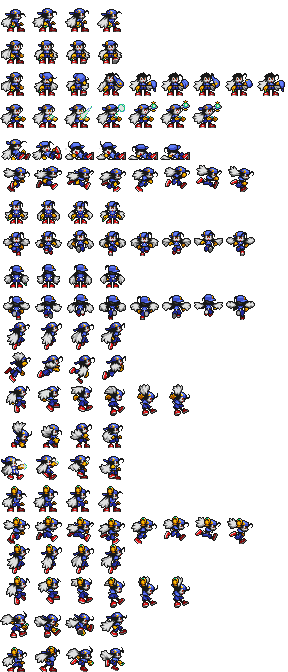
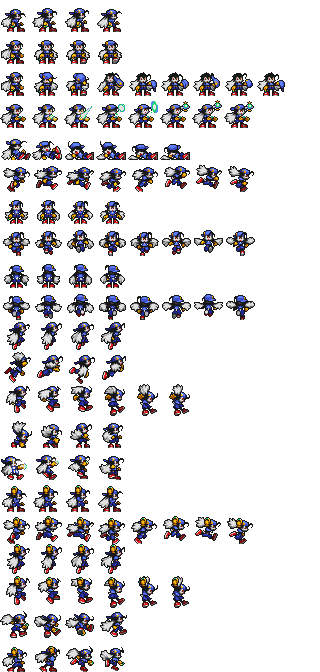
HECK LOTTA STUFF
Got some HUD done on the main level, as well as future-proofed the Klonoa sprites for a future Hoverboard animation.

Changed region(s): [[0.0, 0.0, 1.0, 1.0]]

diff --git a/README.md b/README.md
@@ -8,7 +8,10 @@ ShinySkink9185 (made the game)
 
 ASSETS TAKEN FROM:
 Klonoa: Empire of Dreams (GBA)
-Ripped by Frario, AzRaezel/Dan
+Ripped by Frario, AzRaezel/Dan, Dark Angel, DogInDaGrass
+
+Sonic the Hedgehog (Game Gear)
+Ripped by Techokami
 
 SPECIAL THANKS (in alphabetical order):
 1337b2
